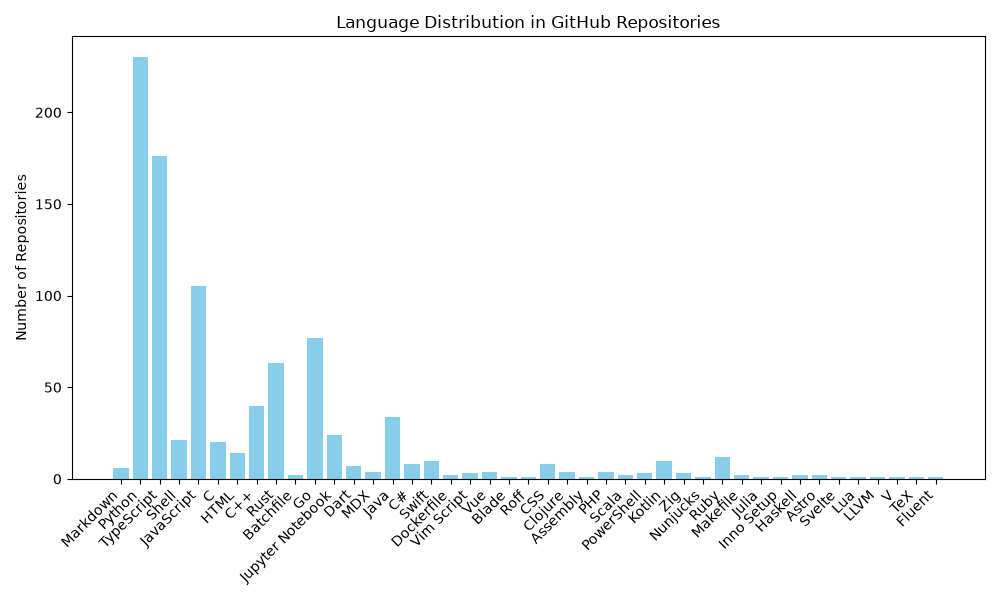
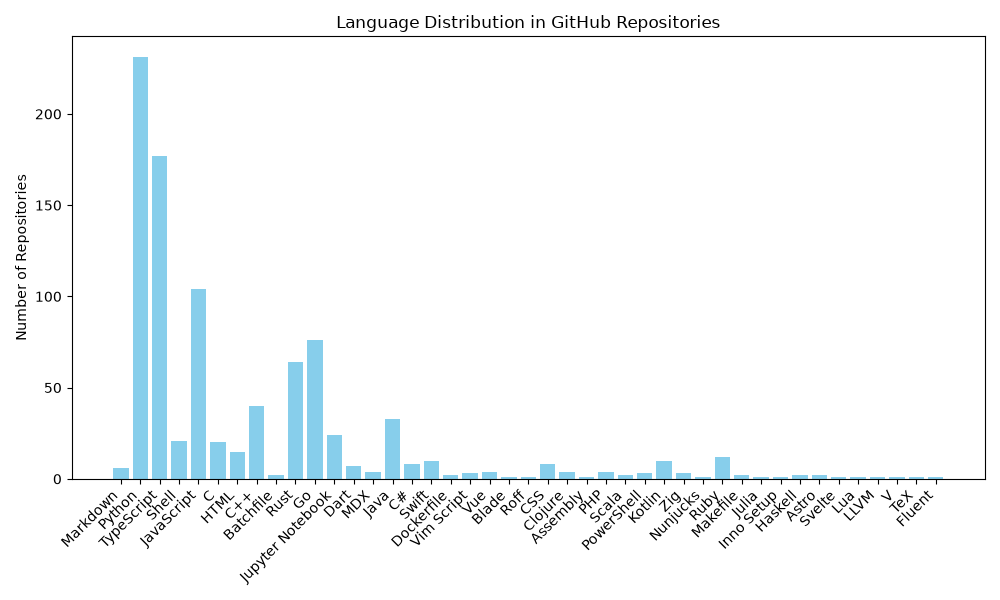
Update language distribution chart

diff --git a/README.md b/README.md
@@ -2,10 +2,10 @@
 
 ![Language Distribution Chart](language_distribution_bar_chart.png)
 
-Total repositories processed: 914
+Total repositories processed: 915
 
 Language distribution:
-Markdown: 6, Python: 230, TypeScript: 176, Shell: 21, JavaScript: 105, C: 20, HTML: 14, C++: 40, Rust: 63, Batchfile: 2, Go: 77, Jupyter Notebook: 24, Dart: 7, MDX: 4, Java: 34, C#: 8, Swift: 10, Dockerfile: 2, Vim Script: 3, Vue: 4, Blade: 1, Roff: 1, CSS: 8, Clojure: 4, Assembly: 1, PHP: 4, Scala: 2, PowerShell: 3, Kotlin: 10, Zig: 3, Nunjucks: 1, Ruby: 12, Makefile: 2, Julia: 1, Inno Setup: 1, Haskell: 2, Astro: 2, Svelte: 1, Lua: 1, LLVM: 1, V: 1, TeX: 1, Fluent: 1
+Markdown: 6, Python: 231, TypeScript: 177, Shell: 21, JavaScript: 104, C: 20, HTML: 15, C++: 40, Batchfile: 2, Rust: 64, Go: 76, Jupyter Notebook: 24, Dart: 7, MDX: 4, Java: 33, C#: 8, Swift: 10, Dockerfile: 2, Vim Script: 3, Vue: 4, Blade: 1, Roff: 1, CSS: 8, Clojure: 4, Assembly: 1, PHP: 4, Scala: 2, PowerShell: 3, Kotlin: 10, Zig: 3, Nunjucks: 1, Ruby: 12, Makefile: 2, Julia: 1, Inno Setup: 1, Haskell: 2, Astro: 2, Svelte: 1, Lua: 1, LLVM: 1, V: 1, TeX: 1, Fluent: 1
 
 
-_Last updated: 2026-10-18 02:42:01_
+_Last updated: 2026-10-25 02:51:48_
